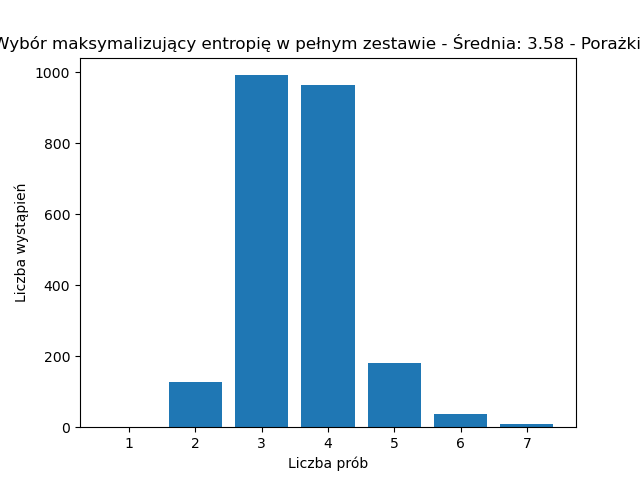
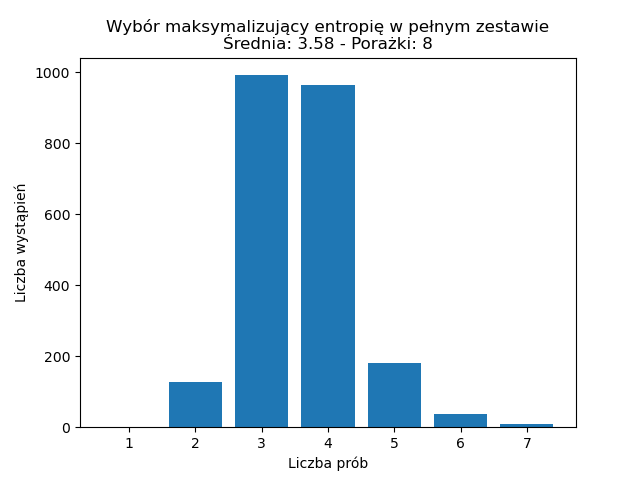
new graph

Changed region(s): [[0.0, 0.0312, 0.875, 0.125], [0.9062, 0.0625, 1.0, 0.125]]

diff --git a/main.py b/main.py
@@ -187,7 +187,7 @@ if __name__ == '__main__':
     "common":(run_most_common_word, "Wybór najczęstszego słowa", "common.png"),
     "random": (run_random, "Losowane słowa", "random.png"),
     "letters": (run_best_letter, "Wybór według najczęstszych liter", "letters.png"),
-    "entropy_large": (run_large, "Wybór maksymalizujący entropię w pełnym zestawie", "entropy_large.png")
+    "entropy_large": (run_large, "Wybór maksymalizujący entropię w pełnym zestawie\n", "entropy_large.png")
     }
 
     algorithm,plot_title,plot_name = modes[sys.argv[1]]
